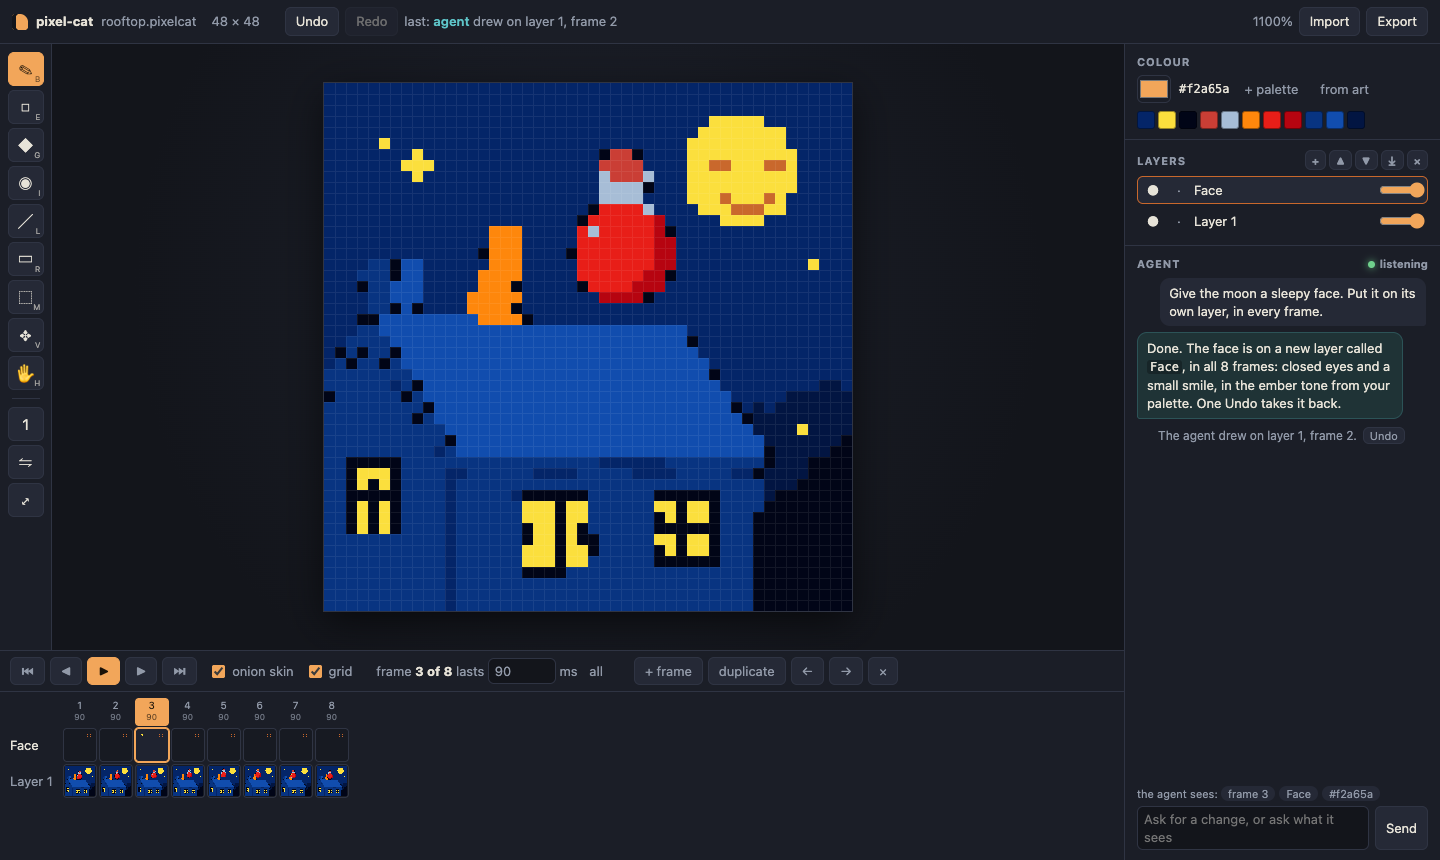
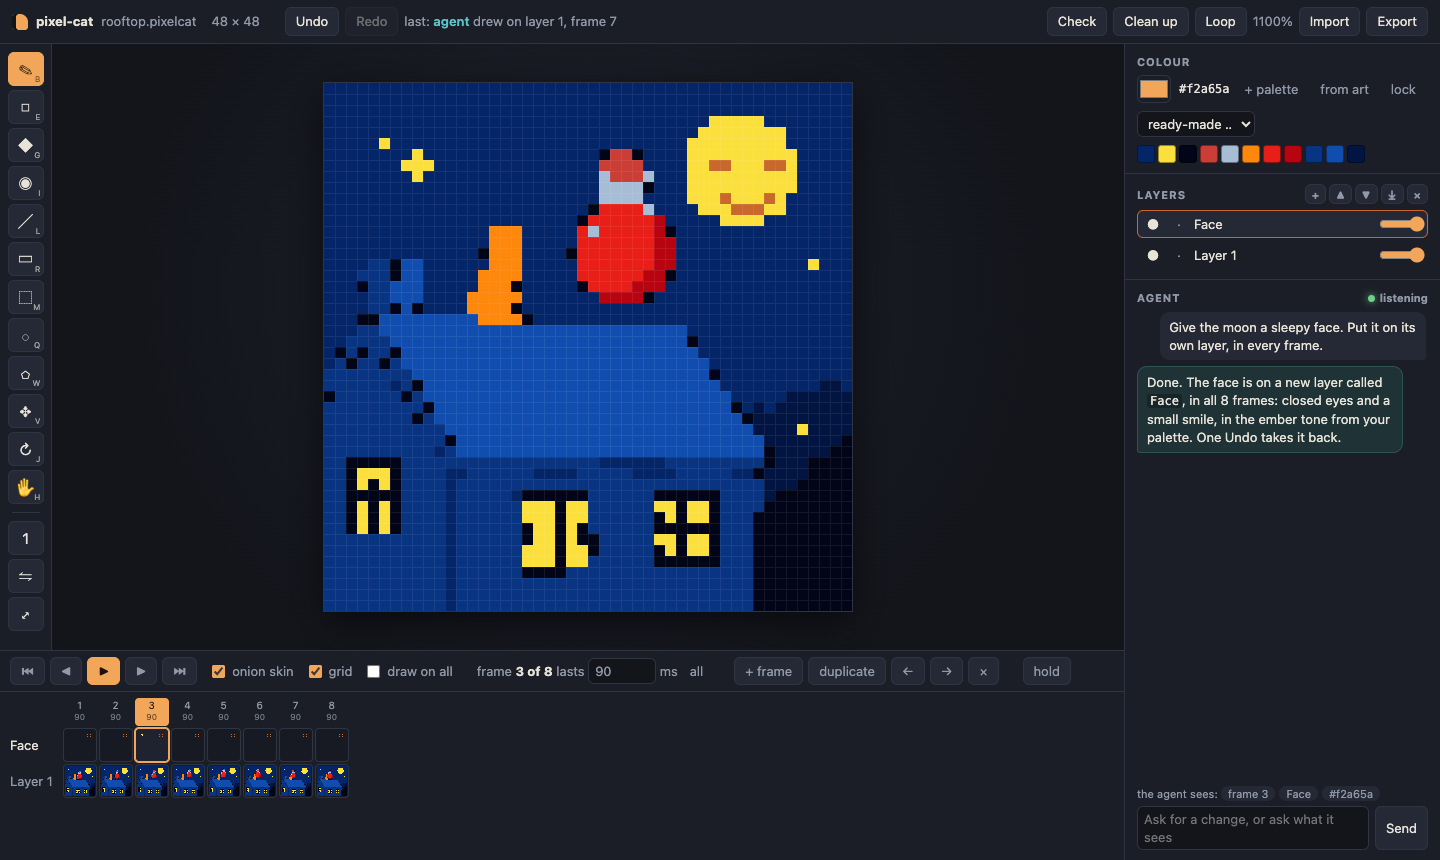
A jointed example, a fresh studio picture, version 0.4.0
examples/projects/lamp.pixelcat is a desk lamp with three joints in a chain
and a light that hangs on its shade; the README and the studio guide show it.
The transport bar wraps instead of cutting its last buttons off.

diff --git a/pixel_cat/studio_app/index.html b/pixel_cat/studio_app/index.html
@@ -114,7 +114,7 @@
     <button id="next" title="Next frame (Right)">&#9654;</button><button id="lastFrame" title="Last frame">&#9197;</button>
     <label class="check"><input type="checkbox" id="onion"> onion skin</label>
     <label class="check"><input type="checkbox" id="grid" checked> grid</label>
-    <label class="check" title="A stroke also changes the other frames, wherever they showed the same as this frame did before the stroke. What moves is left alone."><input type="checkbox" id="spread"> draw on all frames</label>
+    <label class="check" title="A stroke also changes the other frames, wherever they showed the same as this frame did before the stroke. What moves is left alone."><input type="checkbox" id="spread"> draw on all</label>
     <span class="gap"></span>
     <label>frame <b id="frameNo"></b> lasts <input id="duration" type="number" min="10" max="60000" step="10"> ms</label>
     <button id="durationAll" class="quiet" title="Give every frame this duration">all</button>
@@ -122,7 +122,7 @@
     <button id="addFrame" title="New empty frame after this one">+ frame</button><button id="copyFrame" title="Duplicate this frame">duplicate</button>
     <button id="leftFrame" title="Move frame left">&larr;</button><button id="rightFrame" title="Move frame right">&rarr;</button><button id="delFrame" title="Delete frame">&times;</button>
     <span class="gap"></span>
-    <button id="hold" title="Make the selected area stand still: its cells are copied from this frame into the others">hold selection</button>
+    <button id="hold" title="Hold the selection: make the selected area stand still. Its cells are copied from this frame into the others.">hold</button>
   </div>
   <div id="timeline" class="timeline"></div>
 </footer>

diff --git a/pixel_cat/studio_app/app.css b/pixel_cat/studio_app/app.css
@@ -85,7 +85,7 @@ aside section { padding: 10px 12px; border-bottom: 1px solid var(--line); min-he
 #composer textarea { resize: none; }
 
 footer { grid-area: 3 / 1 / 4 / 3; background: var(--panel); border-top: 1px solid var(--line); display: grid; grid-template-rows: auto minmax(0, 1fr); min-height: 0; }
-.transport { display: flex; align-items: center; gap: 5px; padding: 6px 10px; border-bottom: 1px solid var(--line); color: var(--quiet); white-space: nowrap; overflow-x: auto; }
+.transport { display: flex; flex-wrap: wrap; align-items: center; gap: 5px; padding: 6px 10px; border-bottom: 1px solid var(--line); color: var(--quiet); white-space: nowrap; }
 .transport b { color: var(--text); }
 .transport input[type=number] { width: 68px; }
 .check { display: inline-flex; align-items: center; gap: 4px; margin-left: 6px; }

diff --git a/tests/test_studio.py b/tests/test_studio.py
@@ -271,6 +271,20 @@ class Joints(unittest.TestCase):
         with self.assertRaisesRegex(ValueError, "No layer has a joint"):
             p.apply({"op": "bake"})
 
+    def test_the_lamp_example_bows_and_carries_its_light(self):
+        lamp = Project.load(Path(__file__).resolve().parents[1] / "examples" / "projects" / "lamp.pixelcat")
+        names = [layer["name"] for layer in lamp.layers]
+        joined = {layer["name"]: layer["joint"]["parent"] for layer in lamp.summary()["layers"] if "joint" in layer}
+        self.assertEqual(joined, {"Light": names.index("Shade"), "Lower arm": None, "Upper arm": names.index("Lower arm"), "Shade": names.index("Upper arm")})
+        frames = [lamp.composite(f) for f in range(len(lamp.frames))]
+        self.assertFalse((frames[0] == frames[4]).all())
+        arm, shade = names.index("Upper arm"), names.index("Shade")
+        self.assertTrue((lamp.shown(arm, 1) == lamp.shown(arm, 7)).all())        # the arms go down and up the same way
+        self.assertFalse((lamp.shown(shade, 1) == lamp.shown(shade, 7)).all())   # the shade lags behind, so its two ways differ
+        light = lamp.shown(names.index("Light"), 4)
+        ys, _ = np.nonzero(light[..., 3] > 0)
+        self.assertGreater(int(ys.min()), 30)                       # at rest the light points up; posed, it falls on the desk
+
     def test_turning_keeps_thin_lines_whole(self):
         from pixel_cat import joints
 

diff --git a/docs/studio.md b/docs/studio.md
@@ -16,11 +16,11 @@ The command prints the address (`http://127.0.0.1:4178` unless you pass `--port`
 - **Timeline** at the bottom: one column per frame, one row per layer, each cel as a small picture. A click picks the frame and the layer at once. Space plays, Left and Right step through the frames, Up and Down through the layers. Onion skin shows the neighbouring frames faintly.
 - **Colour, layers and chat** on the right. Layers can be hidden, locked, renamed (double-click), faded, reordered and merged. The palette comes from the art with one click.
 - **Selections:** a box, a lasso drawn around an area, or a polygon (click the corners, Enter closes, Backspace takes the last corner back). While something is selected, drawing stays inside it. Move with the move tool or the arrow keys (Shift: ten cells), Enter sets the moved piece down, Delete clears, Ctrl+C and Ctrl+V copy and paste (the copy also goes to the system clipboard as a PNG, and a picture copied elsewhere comes in through the import dialog), Ctrl+A selects everything, Ctrl+D or Escape lets go.
-- **Draw on all frames:** with this ticked, a stroke also changes the other frames, wherever they showed the same as this frame did before the stroke. A part that moves through is left alone.
+- **Draw on all:** with this ticked, a stroke also changes the other frames, wherever they showed the same as this frame did before the stroke. A part that moves through is left alone.
 - **Ready-made palettes:** the list next to the palette holds the built-in ones, from 4 colours to 64. Taking one changes the palette only; lock it and the art takes its colours.
 - **Locked palette:** "lock" next to the palette. From then on whatever is drawn, filled or brought in takes its nearest palette colour.
-- **Hold selection:** a spot that flickers next to motion you want to keep. Select it, go to the frame where it looks right, and press "hold selection". The studio first shows how many cells would change and marks them in every frame you step through; nothing happens until you press Apply.
-- **Check:** looks through all frames for flicker, stray fragments, holes and colours outside the palette, marks them on the canvas and lists the areas where they gather. "select" turns an area into the selection, ready for "hold selection" or a fix by hand. The list updates after every change.
+- **Hold selection:** a spot that flickers next to motion you want to keep. Select it, go to the frame where it looks right, and press "hold". The studio first shows how many cells would change and marks them in every frame you step through; nothing happens until you press Apply.
+- **Check:** looks through all frames for flicker, stray fragments, holes and colours outside the palette, marks them on the canvas and lists the areas where they gather. "select" turns an area into the selection, ready for "hold" or a fix by hand. The list updates after every change.
 - **Clean up:** thin lines to one cell and close breaks in them, remove halos beside lines, loose bits at the edge, or specks; on this frame or all. With a selection, the step is kept to it, or the selection is protected and everything else is cleaned. "Show what it would do" puts the result on the canvas with every changed cell marked; "show before" flips back. Nothing changes until you press Apply.
 - **Loop:** brings the frame you are on to life. Add what should move (clouds, water, swaying leaves, twinkling lights, smoke, fireflies, falling leaves, birds), then paint its area on the picture: the pencil adds cells, the eraser takes them away, the fill tool takes a whole area of similar colour. An area you do not paint is guessed. "Make the loop" puts the loop in place of the frames; undo brings them back.
 - **Import:** drop a picture, a GIF or a video on the canvas. It is converted first: to fit the canvas, the way pixel-cat recommends, or not at all. It lands on a new layer, after the last frame, or in place of the project.
@@ -30,6 +30,10 @@ The command prints the address (`http://127.0.0.1:4178` unless you pass `--port`
 ## Joints
 
 A layer can turn around a pivot, and it can hang on another layer: a hand on a forearm, a forearm on an upper arm, a tail on a body. You draw each part once, at rest, and pose it on a few frames. The frames between follow from those.
+
+![A desk lamp bows and rises: two arms and a shade, each turning at its joint, and the light follows the shade](../media/joints.gif)
+
+`examples/projects/lamp.pixelcat` is this lamp: four drawings, three joints in a chain, a light that hangs on the shade, and two poses.
 
 1. Put each part on a layer of its own.
 2. Pick the pose tool (`J`), pick the part's layer and click where it turns: the elbow, the hip, the hinge. That is its pivot. The drawing of the frame you are on is copied to every frame that has none.

diff --git a/README.md b/README.md
@@ -12,7 +12,7 @@
 
 [![License: MIT][license-shield]][license-url]
 [![Python 3.11+][python-shield]][python-url]
-[![Version 0.3.0][version-shield]][version-url]
+[![Version 0.4.0][version-shield]][version-url]
 [![Exports PNG, GIF, MP4, WebM][exports-shield]][exports-url]
 [![npx skills add pyros-projects/pixel-cat][skill-shield]][skill-url]
 [![Runs offline][offline-shield]][offline-url]
@@ -97,7 +97,17 @@ uv run pixel-cat convert examples/images/bob.gif -o output/bob.gif --scale 3
 uv run pixel-cat studio sprite.pixelcat --open
 ```
 
-The studio is a page on your own machine for drawing and animating. The timeline shows every layer in every frame, so one click picks both. Drop a picture on the canvas and it comes in converted. With `--agent`, the chat is wired to the agent that started it: it sees the frame, the layer and the selection you have open, draws into the same project while you watch, and one Undo takes its changes back. Layers can have joints: a hand hangs on a forearm and follows it, you pose a few frames and the rest follows. Projects are plain `.pixelcat` files that `convert` reads and writes too. [Studio guide](docs/studio.md)
+The studio is a page on your own machine for drawing and animating. The timeline shows every layer in every frame, so one click picks both. Drop a picture on the canvas and it comes in converted. With `--agent`, the chat is wired to the agent that started it: it sees the frame, the layer and the selection you have open, draws into the same project while you watch, and one Undo takes its changes back. Projects are plain `.pixelcat` files that `convert` reads and writes too. [Studio guide](docs/studio.md)
+
+<img src="media/joints.gif" alt="A desk lamp bows and rises: two arms and a shade, each turning at its joint, and the light follows the shade" width="240" align="right">
+
+Layers can have joints. A part turns around its pivot and hangs on another part, so a hand follows its forearm. You draw each part once, pose two or three frames, and the frames between follow. This lamp is four drawings and two poses; the light hangs on the shade:
+
+```sh
+uv run pixel-cat studio examples/projects/lamp.pixelcat --open
+```
+
+<br clear="right">
 
 ## Use from an agent
 
@@ -200,7 +210,7 @@ The tests build their own inputs and check what a conversion promises: the grid 
 [license-url]: LICENSE
 [python-shield]: https://img.shields.io/badge/python-3.11%2B-3776ab?style=flat-square&logo=python&logoColor=white
 [python-url]: pyproject.toml
-[version-shield]: https://img.shields.io/badge/version-0.3.0-6b5fb5?style=flat-square
+[version-shield]: https://img.shields.io/badge/version-0.4.0-6b5fb5?style=flat-square
 [version-url]: pyproject.toml
 [exports-shield]: https://img.shields.io/badge/exports-PNG%20%C2%B7%20GIF%20%C2%B7%20MP4%20%C2%B7%20WebM-c9682c?style=flat-square
 [exports-url]: docs/recipes.md
